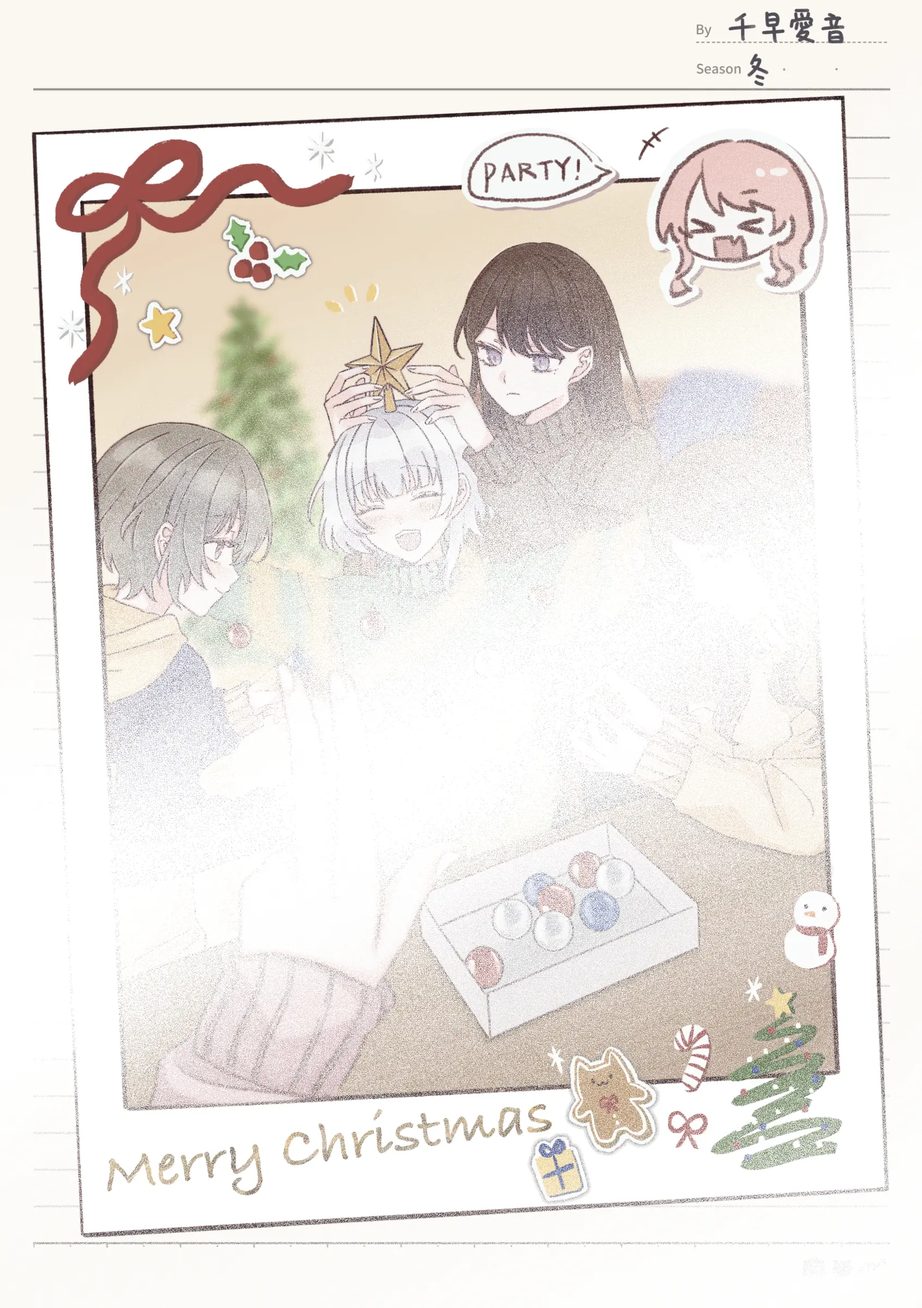
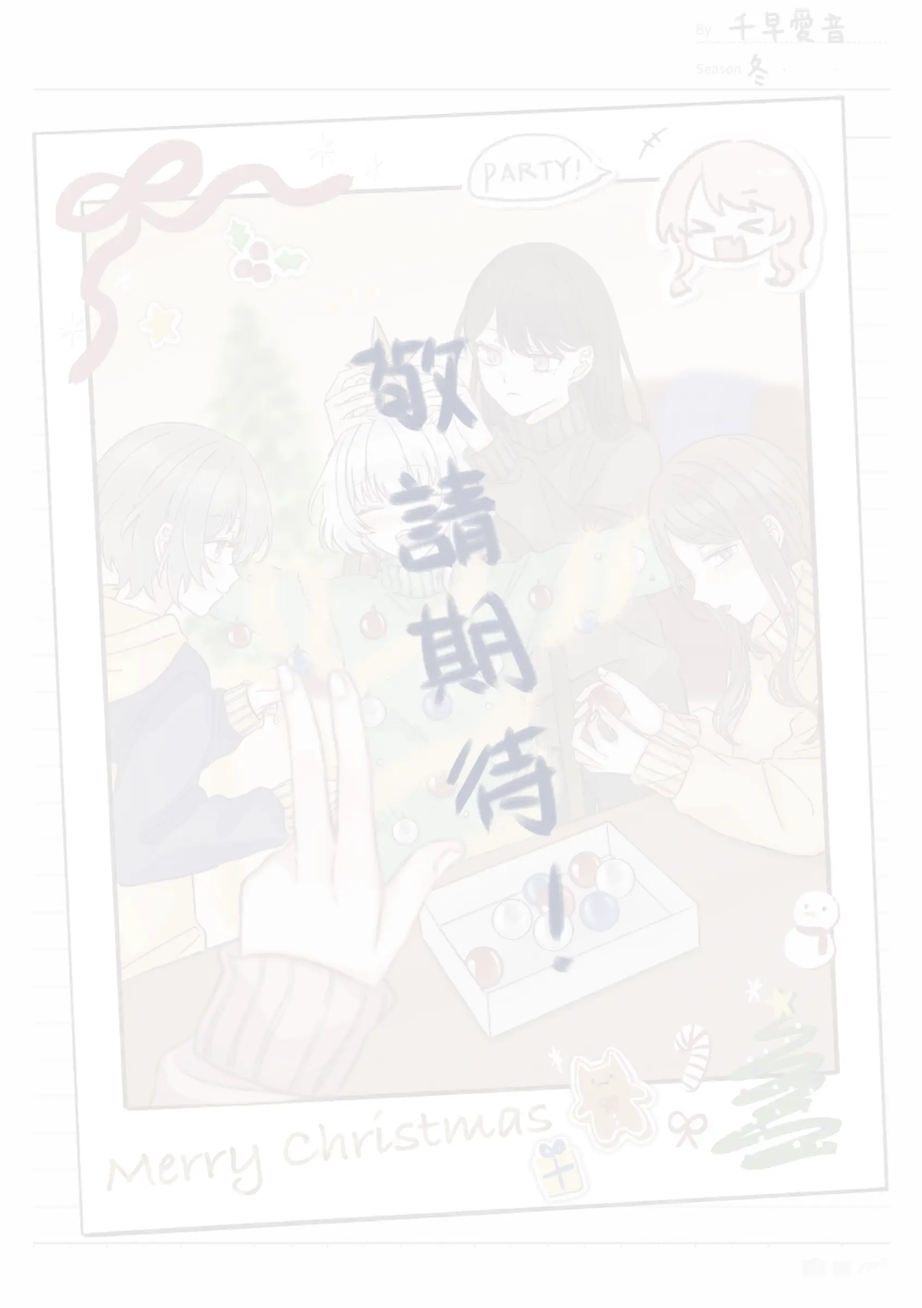
Blank pages 15-24; p25 left untouched

diff --git a/convert.py b/convert.py
@@ -23,7 +23,7 @@ HERE = Path(__file__).parent
 WATERMARK = HERE / '浮水印.png'
 WATERMARK_PAGES = range(7, 25)   # 第 7～24 頁蓋浮水印（PDF 頁碼，含頭尾）
 WATERMARK_OPACITY = {}   # 個別頁面的浮水印透明度（沒列出的是 100%）
-WHITE_PAGES = set(range(15, 26)) - {24}   # 第 15～25 頁蓋成白頁（敬請期待），第 24 頁除外
+WHITE_PAGES = set(range(15, 25))   # 第 15～24 頁蓋成白頁（敬請期待）
 WHITE_OPACITY = 0.88                # 白底的不透明度（1 = 完全蓋住，0.88 = 隱約透出原圖）
 WHITE_PAGE_IMAGE = HERE / '期待.png'   # 全白頁中間放的圖（和頁面同比例的透明畫布，會自動置中）
 WHITE_PAGE_IMAGE_SCALE = 0.7          # 圖的大小（1 = 原圖大小）
